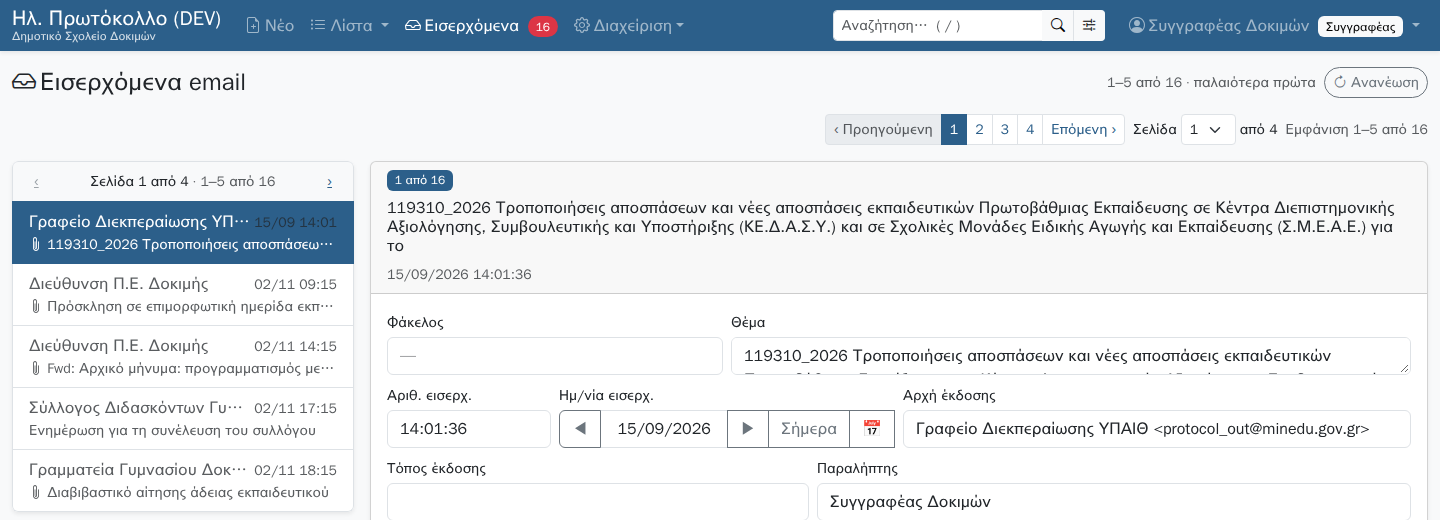
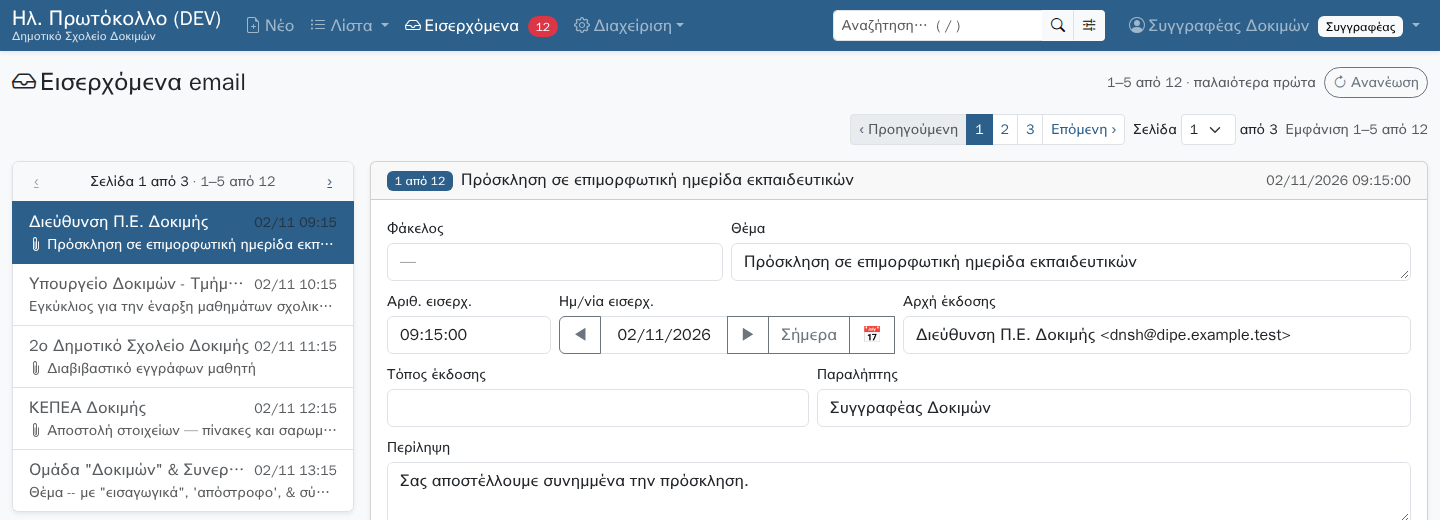
R5g: screenshot retaken with the invented e-mails only; browser tests never load the owner's private e-mails
The first one showed a private e-mail (local-data) present in the development inbox.

diff --git a/docker/dev/make-emails.php b/docker/dev/make-emails.php
@@ -16,7 +16,9 @@
  */
 
 $fixturesDir = rtrim($argv[1] ?? 'tests/fixtures/emails/synthetic', '/');
-$preloadDir = isset($argv[2]) ? rtrim($argv[2], '/') : null;
+$preloadDir = isset($argv[2]) && $argv[2] !== '--no-private' ? rtrim($argv[2], '/') : null;
+// R5i: the browser tests (and their screenshots, which are committed) never see the owner's private e-mails
+$withPrivate = ! in_array('--no-private', $argv, true);
 $mailbox = 'protocol@school.test';
 @mkdir($fixturesDir, 0777, true);
 
@@ -329,7 +331,7 @@ if ($preloadDir) {
     $sources = array_merge(
         glob("$fixturesDir/*.eml") ?: [],
         glob('tests/fixtures/emails/real/*.eml') ?: [],
-        glob('local-data/emails/*.eml') ?: []      // owner's private emails, never committed
+        $withPrivate ? (glob('local-data/emails/*.eml') ?: []) : []      // owner's private emails, never committed
     );
     foreach ($sources as $src) copy($src, "$inbox/" . basename($src));
     // Large attachment (12 MB), generated only for the mock server

diff --git a/docs/reports/R5g.md b/docs/reports/R5g.md
@@ -40,5 +40,14 @@ the left did not say that it was one page of several.
   Inbox and registration browser tests pass: 15 of 15.
 - Full PHPUnit: 554 tests pass.
 
+## Correction (2026-11-20)
+The first screenshot of this report was taken while the development inbox also held the owner's private e-mails
+(`local-data/emails`, loaded there for the owner's own use). It showed one of them: a ministry circular, sender and
+subject.
+- It was replaced by one taken with only the invented test e-mails.
+- The browser tests now always load only the invented and the approved public e-mails (`./dev.sh e2e` →
+  `make-emails.php --no-private`), so no screenshot can show a private e-mail again.
+- The old image is still in this branch's history. See OWNER-TODO for the owner's decision on that.
+
 ## Owner actions
 None. To try it: step 46 in [OWNER-TODO.md](../../OWNER-TODO.md).
